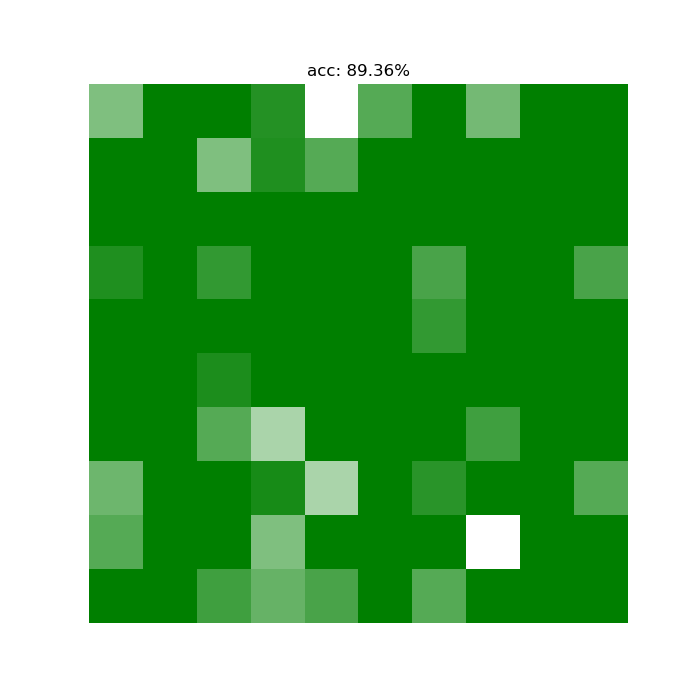
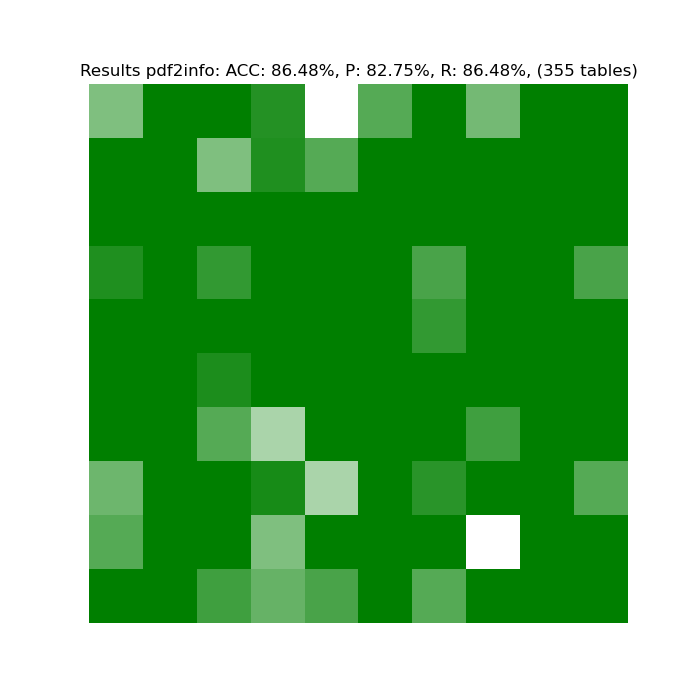
Moved pdfminer as helper to linesearch. Updated README

Changed region(s): [[0.12, 0.09, 0.9, 0.12]]

diff --git a/core/analyze_pdfminer.py b/core/analyze_pdfminer.py
@@ -1,52 +1,20 @@
 import io
 import logging
 
-from pdfminer.pdfinterp import PDFResourceManager, PDFPageInterpreter
-from pdfminer.converter import TextConverter
+from pprint import pprint
+from io import StringIO
+import re
+from pdfminer.high_level import extract_text_to_fp
 from pdfminer.layout import LAParams
-from pdfminer.pdfpage import PDFPage
+from lxml import html
 
 
-def load_text_maually_pdfminer(path):
-    rsrcmgr = PDFResourceManager()
-    retstr = io.StringIO()
-    codec = 'utf-8'
-    laparams = LAParams()
-    device = TextConverter(rsrcmgr, retstr, laparams=laparams)
-    fp = open(path, 'rb')
-    interpreter = PDFPageInterpreter(rsrcmgr, device)
-    password = ""
-    maxpages = 0
-    caching = True
-    pagenos = set()
-
-    for page in PDFPage.get_pages(fp, pagenos, maxpages=maxpages,
-                                  password=password,
-                                  caching=caching,
-                                  check_extractable=True):
-        interpreter.process_page(page)
-
-
-
-    fp.close()
-    device.close()
-    text = retstr.getvalue()
-    retstr.close()
-    return text
-
-
-def extract_tables(path):
-    from pprint import pprint
-    from io import StringIO
-    import re
-    from pdfminer.high_level import extract_text_to_fp
-    from pdfminer.layout import LAParams
-    from lxml import html
+def find_pdfminer_interesting_lines(path):
     ID_LEFT_BORDER = 56
     ID_RIGHT_BORDER = 156
     QTY_LEFT_BORDER = 355
     QTY_RIGHT_BORDER = 455
-    # Read PDF file and convert it to HTML
+    # Extract html
     output = StringIO()
     with open(path, 'rb') as pdf_file:
         extract_text_to_fp(pdf_file, output, laparams=LAParams(), output_type='html', codec=None)
@@ -77,16 +45,16 @@ def extract_tables(path):
     for row in zip(filtered_divs['ID'], filtered_divs['Qty']):
         if 'ID' in row[0]:
             continue
-        data_row = {'ID': row[0].split(' ')[0], 'Quantity': row[1]}
-        data.append(data_row)
+        data_row = row[1].split('\n')
+        data += data_row
     data = [d for d in data if len(d) > 1]
     return data
 
 
 
 if __name__ == '__main__':
-    logging.basicConfig(level=logging.DEBUG)
+    logging.basicConfig(level=logging.DEBUG+1)
     path = "../analysis/DATASET/chunks/papers_chunk_1/2211.09388.pdf"
-    tables = extract_tables(path)
-    if tables is not None:
-        print(tables)
+    intereseting_words = find_pdfminer_interesting_lines(path)
+    if intereseting_words is not None:
+        print(intereseting_words)

diff --git a/core/analysis/results_plotter.py b/core/analysis/results_plotter.py
@@ -16,14 +16,18 @@ def show_cmap():
     plt.show()
 
 
-def plot_results(TP, TN, FP, FN, files_percentage_ok, color_min=None, color_max=None, cmap=None, figsize=(7,7), save_to=None):
+def plot_results(TP, TN, FP, FN, files_percentage_ok, title="Results pdf2info:", color_min=None, color_max=None, cmap=None, figsize=(7,7), save_to=None):
     if cmap is None: cmap = DEFAULT_CMAP
     fig = plt.figure(figsize=figsize)
+
+    # Compute matrix to show results
     a = np.array(files_percentage_ok)
     ns = np.ceil(np.sqrt(len(files_percentage_ok))).astype(int)
     s = np.zeros(ns ** 2)
     s[:a.size] = a
     y = s.reshape(ns, ns)
+
+    # Compute scores
     tables_num = TP + FN
     precision = (TP) / (TP+FP)
     recall = (TP) / (TP+FN)
@@ -31,8 +35,8 @@ def plot_results(TP, TN, FP, FN, files_percentage_ok, color_min=None, color_max=
     N = 0
     acc = (TP+TN)/(P+N)
     accuracy_over_pdfs = np.mean(y)
-    #plt.title("acc: {:.2f}% ({:.2f}% pdf), precision:{:.2f}%, recall:{:.2f}%, tables num:{}".format(acc*100, accuracy_over_pdfs, precision*100, recall*100, tables_num))
-    plt.title("acc: {:.2f}%".format(accuracy_over_pdfs))
+    plt.title("{} ACC: {:.2f}%, P: {:.2f}%, R: {:.2f}%, ({} tables)".format(title,  acc*100, precision*100, recall*100, tables_num))
+    #plt.title("{} acc: {:.2f}%".format(title, accuracy_over_pdfs))
     plt.axis('off')
     plt.imshow(y, cmap=cmap, vmin=color_min, vmax=color_max)
     plt.show()

diff --git a/core/extractor_linesearch.py b/core/extractor_linesearch.py
@@ -1,9 +1,13 @@
 from typing import Optional, List
-import pdfbox
 import tempfile
-import pandas as pd
 import logging
 import os
+
+import pandas as pd
+
+import pdfbox
+
+from core.analyze_pdfminer import find_pdfminer_interesting_lines
 
 p = None
 
@@ -28,6 +32,9 @@ def extract_tables(path):
     p.extract_text(path, output_path=tmp_fn)
     text = read_and_delete_file(tmp_fn)
 
+    # Get intereting words by analyzing html
+    #interesting_words = find_pdfminer_interesting_lines(path)
+
     tables = []
     remaining_text = []
     # Iterate thru text
@@ -37,7 +44,16 @@ def extract_tables(path):
         curr_line = text[i].lower()
         #if "table" in curr_line.lower():
         #    a = 4
-        if curr_line.startswith("table") or curr_line.startswith('tab.'):
+        arrived_at_table = False
+        arrived_at_table = curr_line.startswith("table") or curr_line.startswith('tab.')
+
+        if not arrived_at_table:
+            # TODO: use interesting_lines and check if we are in an interesting line.
+            # TODO: then arrived_at_table = True
+            pass
+
+
+        if arrived_at_table:
             logging.debug("Found one table with pdfBOX")
             current_table = []
 

diff --git a/core/extractor.py b/core/extractor.py
@@ -1,12 +1,11 @@
-from core.extractor_pdfbox import extract_tables as ex_pdfbox
+from core.extractor_linesearch import extract_tables as ex_linesearch
 from core.extractor_tabula import extract_tables as ex_tabula
 from core.extractor_camelot import extract_tables as ex_camelot
-from core.extractor_pdfminer import extract_tables as ex_pdfminer
 import logging
 
 
 def extraction_methods_names() -> list:
-    return ['tabula', 'camelot', 'pdfminer', 'linesearch', 'tab2know']
+    return ['tabula', 'camelot', 'linesearch', 'tab2know']
 
 
 def method_from_name(name: str):
@@ -14,12 +13,10 @@ def method_from_name(name: str):
         return ex_tabula
     elif name == 'camelot':
         return ex_camelot
-    elif name == 'pdfminer':
-        return ex_pdfminer
     elif name == 'tab2know':
         raise Exception("MEthod not implemented here")
     elif name == 'linesearch':
-        return ex_pdfbox
+        return ex_linesearch
     elif name == 'all':
         return extract_tables_all
     else:

diff --git a/analysis/pdf2info_tests/show_results_of_method.py b/analysis/pdf2info_tests/show_results_of_method.py
@@ -8,10 +8,10 @@ def create_plots_results(method_used:str, show_fig:bool=True):
     csv_folder = "csv_extracted"
     gth = load_groundtruth("../DATASET/GROUNDTRUTH_DATASET.csv")
     TP, TN, FP, FN, files_percentage_ok = check_results(csv_folder, gth, split_char='_')
-    plot_results(TP, TN, FP, FN, files_percentage_ok, color_min=0, color_max=100, save_to="../results/{}_on_DATASET.png".format(method_used))
+    plot_results(TP, TN, FP, FN, files_percentage_ok, title=method_used,  color_min=0, color_max=100, save_to="../results/{}_on_DATASET.png".format(method_used))
 
 
 if __name__ == '__main__':
-    method_used = 'tabula'
+    method_used = 'linesearch'
     create_plots_results(method_used, show_fig=True)
 

diff --git a/README.md b/README.md
@@ -59,9 +59,11 @@ Check [analysis/tab2know_tests](analysis/tab2know_tests) istructions.
 
 Check [analysis/pdf2info_tests](analysis/pdf2info_tests) istructions.
 
-# pdf2info vs tab2know
+# Comparison
 
 <p align="center">
-  <img width="400" height="400" src="analysis/results/pdf2info_on_DATASET.png" alt="pdf2info heatmap results">
+  <img width="400" height="400" src="analysis/results/camelot_on_DATASET.png" alt="pdf2info heatmap results">
+  <img width="400" height="400" src="analysis/results/tabula_on_DATASET.png" alt="tab2know heatmap results">
+  <img width="400" height="400" src="analysis/results/linesearch_on_DATASET.png" alt="tab2know heatmap results">
   <img width="400" height="400" src="analysis/results/tab2know_on_DATASET.png" alt="tab2know heatmap results">
 </p>
